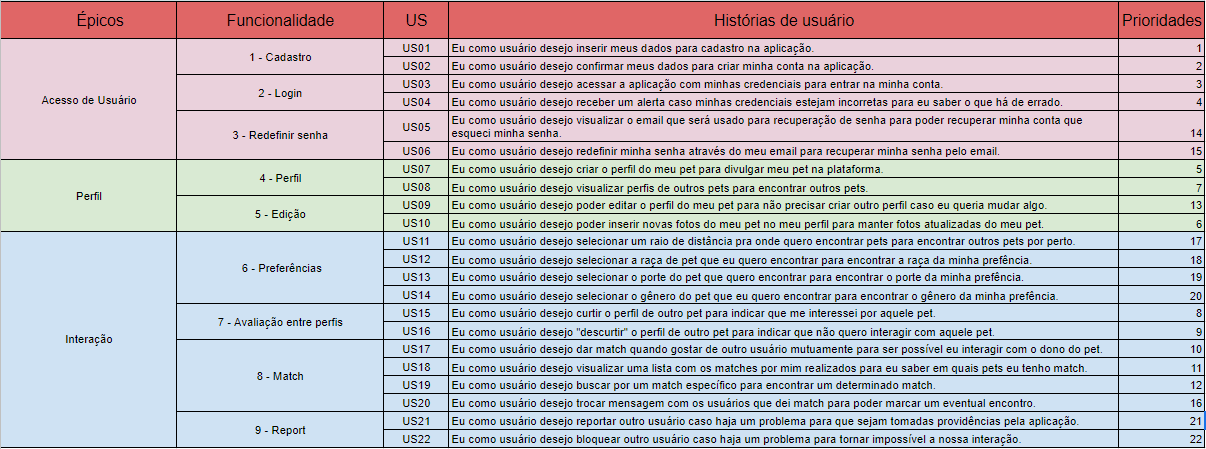
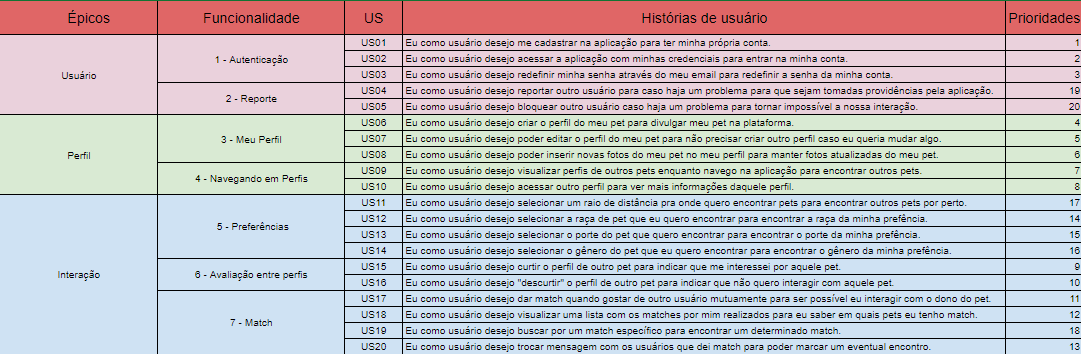
att USM e User Stories

diff --git a/docs/Unidade_4/visaoGeralProjeto.md b/docs/Unidade_4/visaoGeralProjeto.md
@@ -26,10 +26,10 @@ Mudei aqui o cronograma -- Antonio
 | Sprint 4 | Canvas MVP, KanBan e Visão do Projeto | 17/02 | 24/02 |
 | Sprint 5 | Preparação do Ambiente React Native e Expo | 01/03 | 08/03 |
 | Sprint 6 | Canvas PBB, mapeamento de historias e BDD | 10/03 | 17/03 |
-| Sprint 7 | US01 **a** US04 | 22/03 | 29/03 |
-| Sprint 8 | US07, US09 e US10 | 31/03 | 07/04 |
-| Sprint 9 | US08, US15 e US16 | 12/04 | 19/04 |
-| Sprint 10 | US17, US18 e US20 | 21/04 | 28/04 |
+| Sprint 7 | US01, US02 e US03 | 22/03 | 29/03 |
+| Sprint 8 | User Story Map, US06, US07 e US08 | 31/03 | 07/04 |
+| Sprint 9 | US09, US10 e US15 | 12/04 | 19/04 |
+| Sprint 10 | US16, US17 e US20 | 21/04 | 28/04 |
 
 <br>
 

diff --git a/docs/Unidade_4/pbb.md b/docs/Unidade_4/pbb.md
@@ -102,9 +102,9 @@ Os critérios de classificação foram:
 
 ![PBB](./assets/coorg4.png)
 
-# Critérios de Aceitação das US's
+# Critérios de Aceitação das US's do MVP1
 
-Os critérios de aceitação de todas as User Stories podem ser visualizados através do link abaixo da imagem.
+Os critérios de aceitação das User Stories do MVP1 podem ser visualizados através do link abaixo da imagem.
 
 ![criterios](./assets/criteriosAceitacao.png)
 

diff --git a/docs/Unidade_4/usm.md b/docs/Unidade_4/usm.md
@@ -1,5 +1,5 @@
 # User Story Mapping
-O USM pode ser totalmente analisado no **Miro** disponível no link abaixo da imagem.
+O USM pode ser melhor analisado no **Miro** disponível no link abaixo da imagem.
 
 ![USM](./assets/USM.png)
 
